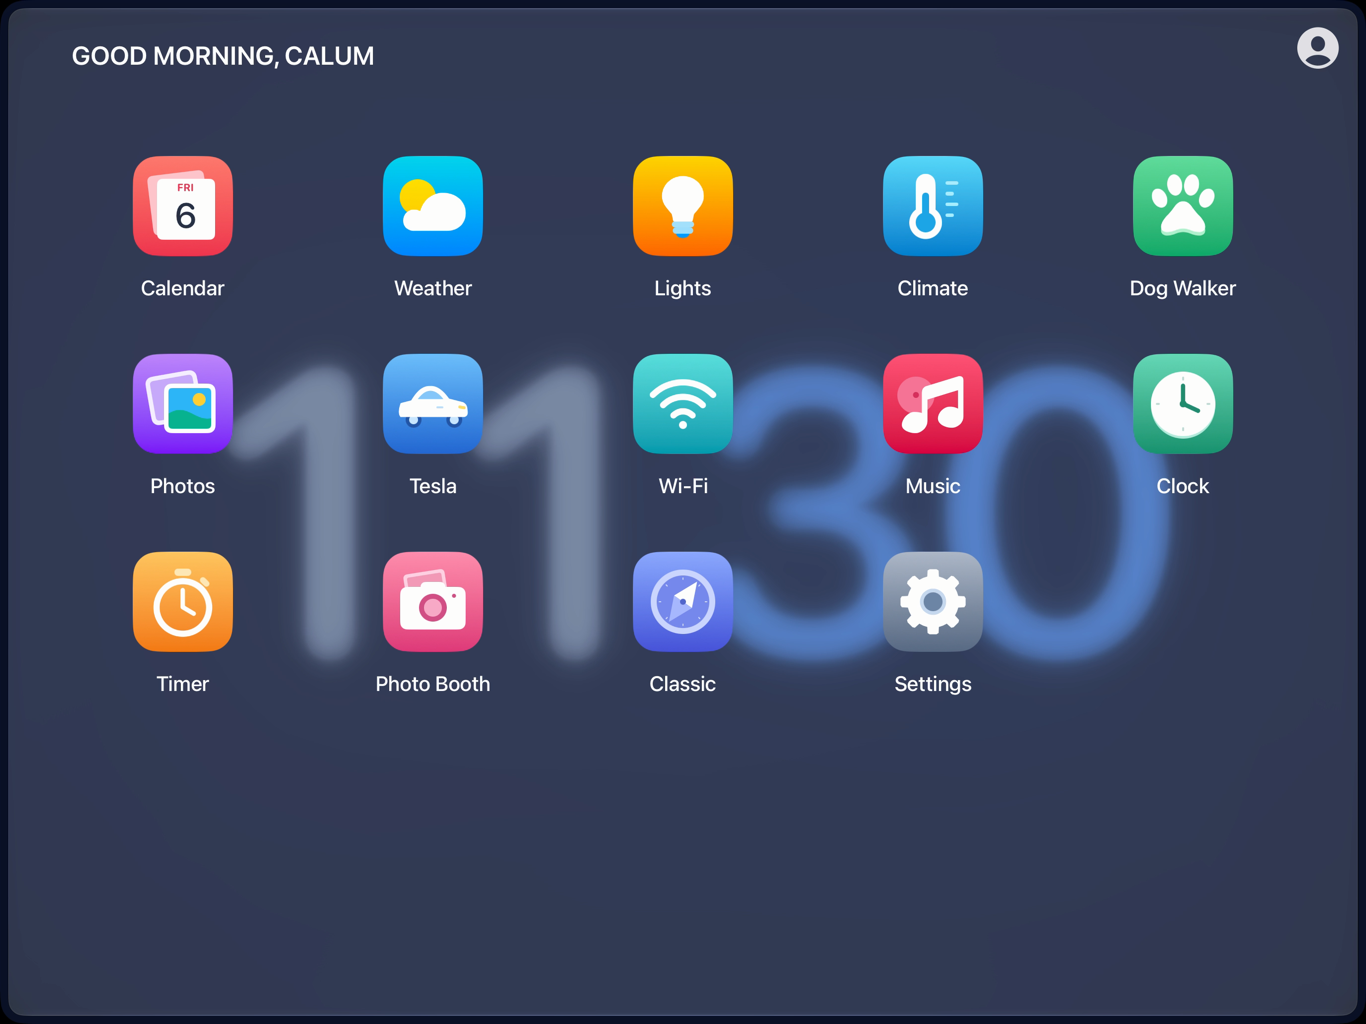
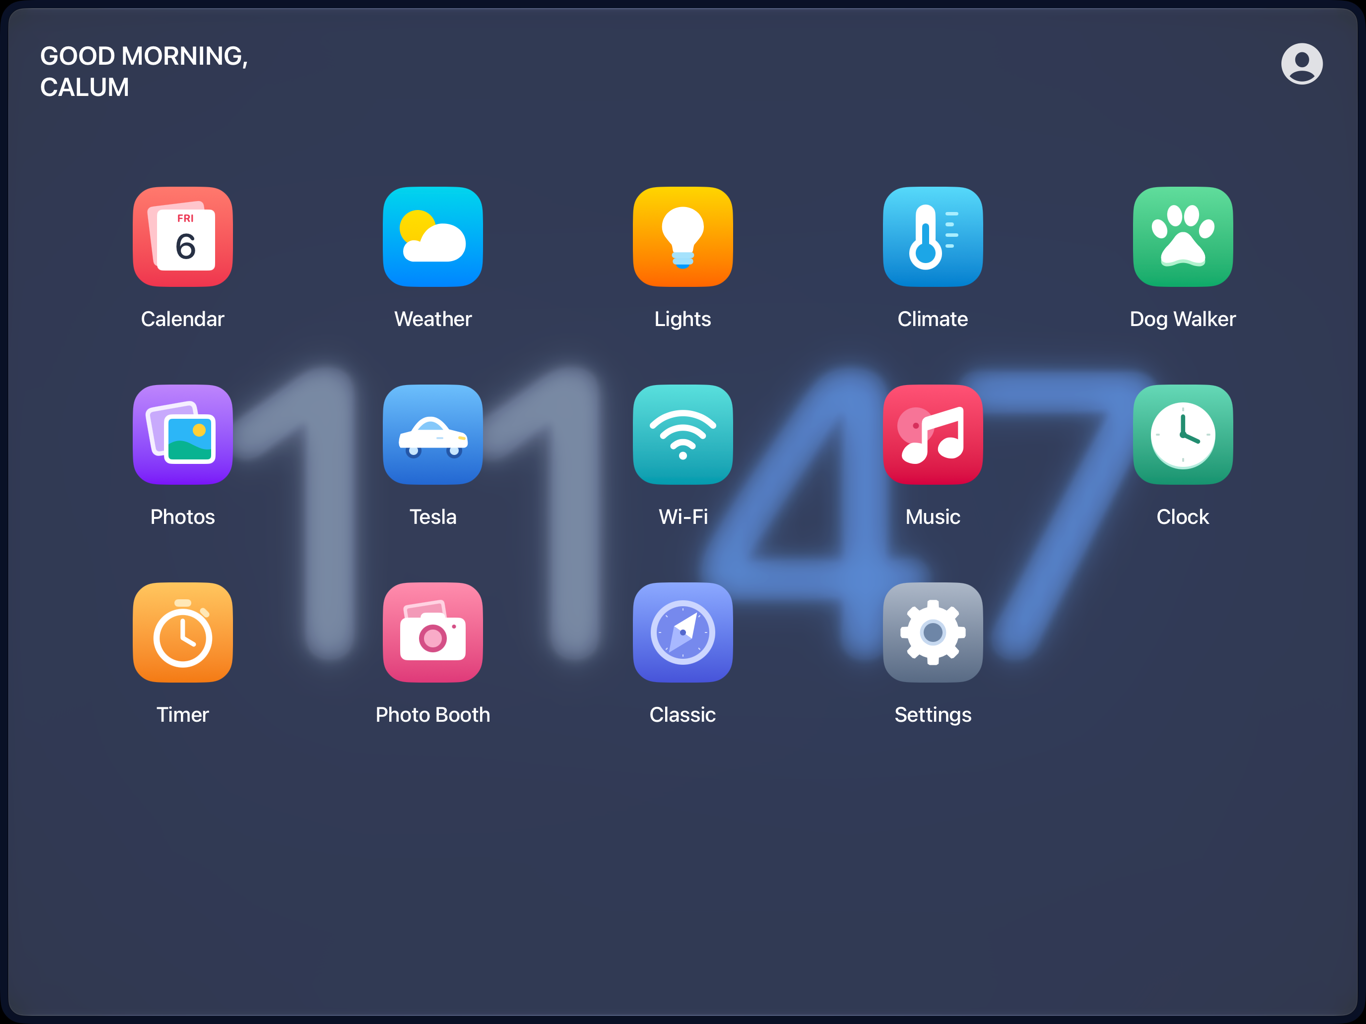
style: align home header and split greeting

diff --git a/apps/apple-prototype/Sources/Apps/AppLauncher.swift b/apps/apple-prototype/Sources/Apps/AppLauncher.swift
@@ -15,6 +15,7 @@ struct AppLauncher: View {
             let columns = sizeClass == .compact ? 3 : 5
             let iconFrameSide: CGFloat = sizeClass == .compact ? 76 : 112
             let iconSide = iconFrameSide * 0.9
+            let headerInset: CGFloat = sizeClass == .compact ? 20 : 40
             ZStack(alignment: .topTrailing) {
             ScrollView(.vertical) {
                 VStack(spacing: 32) {
@@ -22,14 +23,14 @@ struct AppLauncher: View {
                         let hour = Calendar.current.component(.hour, from: context.date)
                         let greeting = hour < 5 || hour >= 21 ? "GOOD NIGHT" :
                             hour < 12 ? "GOOD MORNING" : hour < 17 ? "GOOD AFTERNOON" : "GOOD EVENING"
-                        Text("\(greeting), CALUM")
+                        Text("\(greeting),\nCALUM")
                             .font(.system(size: sizeClass == .compact ? 18 : 26, weight: .semibold))
                             .foregroundStyle(.white)
                             .frame(maxWidth: .infinity, alignment: .leading)
                     }
-                    .padding(.leading, sizeClass == .compact ? 20 : 72)
-                    .padding(.trailing, 132)
-                    .padding(.top, 40)
+                    .padding(.leading, headerInset)
+                    .padding(.trailing, headerInset + 64)
+                    .padding(.top, headerInset)
                 GlassEffectContainer(spacing: 32) {
                     LazyVGrid(columns: Array(repeating: GridItem(.flexible(), spacing: 28), count: columns), spacing: 48) {
                         ForEach(apps) { app in
@@ -66,7 +67,7 @@ struct AppLauncher: View {
                     })
                 if isPresented {
                     PanelProfilePhoto()
-                        .padding(24)
+                        .padding(headerInset)
                         .zIndex(1)
                 }
             }
